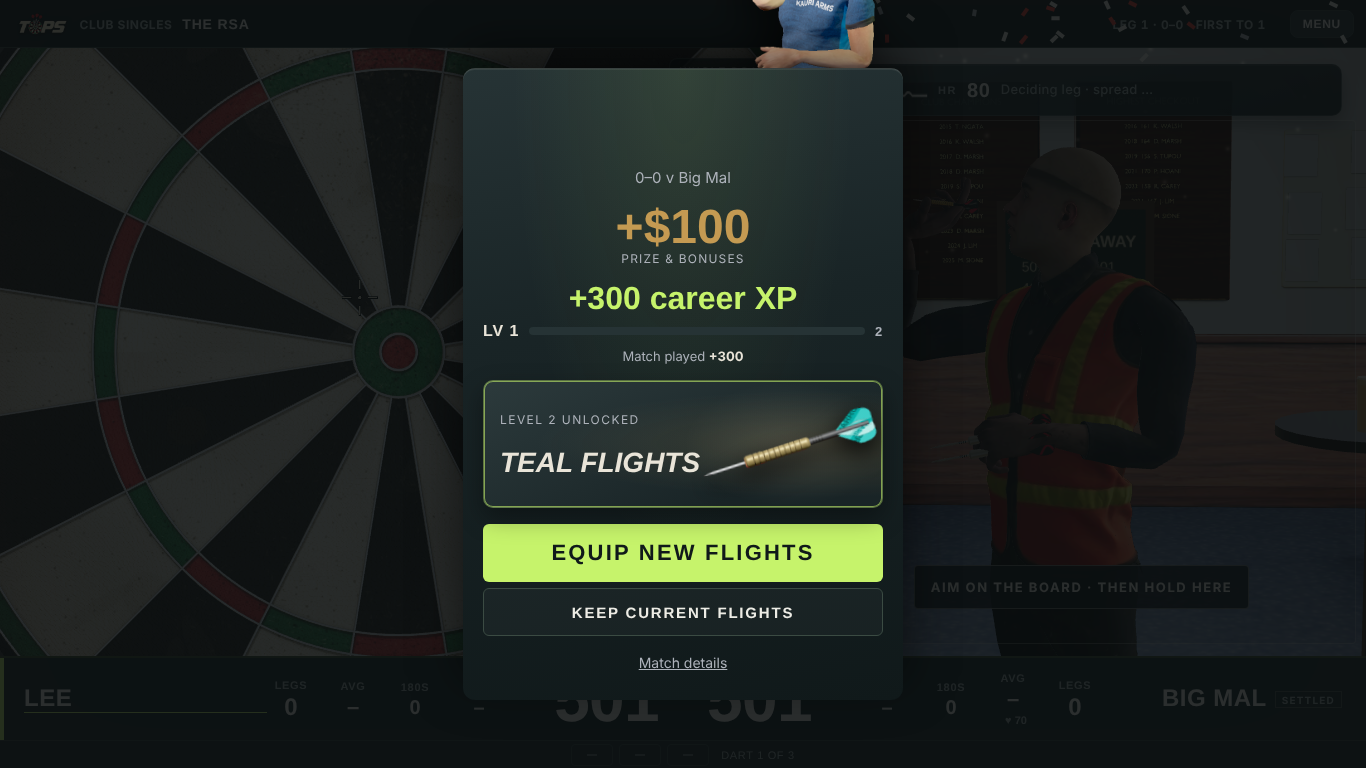
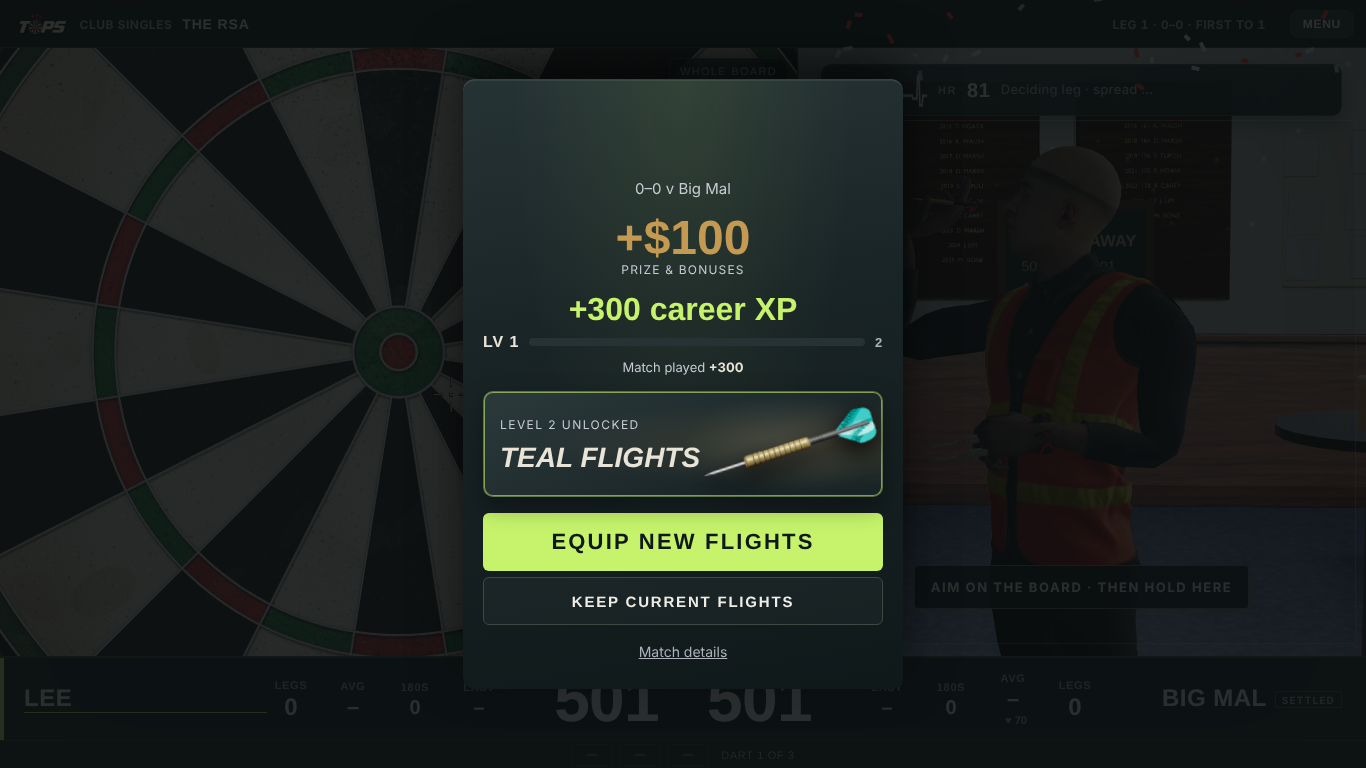
Reward tile ChatGPT r1 (8.2): level-up stage dart 210 px under the item name with a soft spotlight, shorter copy, 'Tap to continue' (equip choice stays on the card); unlock tile taller with a bigger dart; secondary labels lighter; player render hidden when the card is centred on a wide screen (it wa
Claude-Session: https://claude.ai/code/session_01WmQEKVsLutVo52VGmj2r97

diff --git a/v11.js b/v11.js
@@ -47,7 +47,7 @@ body:has(#c3rw:not([hidden])) #achToasts{display:none!important}
 #lvFirst{position:fixed;inset:0;z-index:200;display:flex;flex-direction:column;align-items:center;justify-content:center;background:radial-gradient(circle at 50% 42%,#3a2a0c,#0b0c0f 72%);color:#f1e6c8;text-align:center;padding:24px;cursor:pointer}
 #lvFirst .k{font:700 13px Manrope,system-ui,sans-serif;letter-spacing:.3em;text-transform:uppercase;color:#d6b25e;animation:lvUp .5s .1s}
 #lvFirst .n{font:900 88px/1 Barlow,system-ui,sans-serif;background:linear-gradient(180deg,#fff1bf,#d6a640 60%,#9a6d1e);-webkit-background-clip:text;background-clip:text;color:transparent;animation:lvBig .7s .25s cubic-bezier(.2,.75,.2,1);filter:drop-shadow(0 6px 18px rgba(214,166,64,.45))}
-#lvFirst .s{font:600 15px/1.4 Manrope,system-ui,sans-serif;max-width:300px;margin-top:14px;animation:lvUp .5s .8s}
+#lvFirst .s{font:600 15px/1.4 Manrope,system-ui,sans-serif;max-width:300px;margin-top:14px;animation:lvUp .5s .8s}#lvFirst .s2{margin-top:8px;font-size:14px;color:#d9ccaa}
 #lvFirst .t{margin-top:26px;font:700 12px Manrope,system-ui,sans-serif;letter-spacing:.2em;text-transform:uppercase;color:#d6b25e;animation:lvUp .5s 1.4s}
 #lvFirst .ring{position:absolute;width:220px;height:220px;border-radius:50%;border:2px solid rgba(246,220,146,.6);opacity:0;animation:lvRing 1.2s .25s ease-out forwards}
 @keyframes lvUp{from{transform:translateY(8px)}to{transform:none}}
@@ -131,8 +131,12 @@ body:has(#c3rw:not([hidden])) #achToasts{display:none!important}
  // ---- 4. a bigger first level-up: full-screen reveal the first time the reward card unlocks something ----
  const lvReveal=(unl)=>{const lab=(unl.querySelector('small')||{}).textContent||'';const m=lab.match(/Level (\d+)/);const lv=m?m[1]:'2';
    const item=(unl.querySelector('b')||{}).textContent||'';const ico=unl.querySelector('.ri');
-   const o=document.createElement('div');o.id='lvFirst';o.innerHTML=`<div class="ring"></div><div class="k">Level up</div><div class="n">${lv}</div><div class="s">${item?`<b style="display:block;font:800 22px Barlow,system-ui,sans-serif;letter-spacing:.04em;color:#fff1bf;margin-bottom:6px">${item}</b>`:''}Your first unlock. Every level from here adds something to your kit, your look or your name.</div><div class="t">Tap to equip</div>`;
-   if(ico){const c=ico.cloneNode(true);c.style.cssText='display:block;width:96px;height:96px;margin:18px auto 0;animation:lvUp .5s .6s';const im=c.querySelector('img');if(im)im.style.cssText='width:96px;height:96px;object-fit:contain';o.querySelector('.s').after(c);}
+   const o=document.createElement('div');o.id='lvFirst';o.innerHTML=`<div class="ring"></div><div class="k">Level up</div><div class="n">${lv}</div>${item?`<div class="s"><b style="display:block;font:800 22px Barlow,system-ui,sans-serif;letter-spacing:.04em;color:#fff1bf">${item}</b></div>`:''}<div class="s s2">Your first unlock. Every level adds something new.</div><div class="t">Tap to continue</div>`;
+   // the unlocked item is the star: the dart render 210 px wide straight under its name, angled like the reward card, on a soft spotlight (ChatGPT 00:08)
+   if(ico){const c=ico.cloneNode(true);const dart=c.classList.contains('ri-dart');const im=c.querySelector('img');
+     if(dart){c.style.cssText='display:block;position:relative;width:210px;height:66px;margin:22px auto 4px;background:radial-gradient(ellipse at 50% 55%,rgba(214,166,64,.22),transparent 70%);animation:lvUp .5s .6s';if(im)im.style.cssText='width:210px;height:66px;object-fit:contain;transform:rotate(-9deg);filter:drop-shadow(0 8px 10px rgba(0,0,0,.6))';}
+     else{c.style.cssText='display:block;width:120px;height:120px;margin:18px auto 4px;animation:lvUp .5s .6s';if(im)im.style.cssText='width:120px;height:120px;object-fit:contain';}
+     (o.querySelector('.s:not(.s2)')||o.querySelector('.n')).after(c);}
    document.body.appendChild(o);try{sfxLevel();setTimeout(()=>{try{sfxCheer(false);}catch(e){}},350);}catch(e){}try{confetti(1);}catch(e){}
    let gone=false;const go=()=>{if(gone)return;gone=true;o.style.transition='opacity .25s';o.style.opacity='0';setTimeout(()=>o.remove(),260);};o.onclick=go;setTimeout(go,5000);};
  new MutationObserver(()=>{try{const u=$('c3rwUnl');if(!u||u.hidden||u.dataset.v11||save.lvFirstSeen)return;u.dataset.v11=1;if(!/Level \d+ unlocked/.test(u.textContent))return;save.lvFirstSeen=true;try{persist();}catch(e){}setTimeout(()=>lvReveal(u),250);}catch(e){}}).observe(document.body,{subtree:true,attributes:true,attributeFilter:['hidden'],childList:true});

diff --git a/head3.html b/head3.html
@@ -6662,3 +6662,9 @@ document.addEventListener('DOMContentLoaded',function(){setTimeout(show,1500);})
 .c3rw-unl .ri.ri-hero{width:118px!important;height:118px!important;overflow:hidden;border-radius:10px}.c3rw-unl .ri.ri-hero img{width:100%!important;height:150%!important;max-width:none!important;object-fit:cover;object-position:50% 40%;filter:drop-shadow(0 8px 10px rgba(0,0,0,.5))}
 </style>
 <style id="c3rw-unl2">#c3rw .c3rw-unl,.c3rw .c3rw-unl{border:1px solid rgba(198,243,107,.35)!important}.c3rw-unl::after{content:"";position:absolute;right:0;top:0;bottom:0;width:62%;background:radial-gradient(ellipse 60% 70% at 62% 50%,rgba(255,240,210,.10),rgba(0,0,0,0) 70%);pointer-events:none;z-index:0;border-radius:inherit}</style>
+<style id="rw-polish">/* reward card polish (ChatGPT 00:08): unlock tile a little taller with a bigger dart; readable secondary labels; no cropped player render when the card is centred on a wide screen */
+.c3rw-unl{min-height:106px}
+.ri-dart{width:232px!important;height:72px!important;margin-top:-36px}
+.c3rw-unl small,.c3rw-cash small,.c3rw-src,.c3rw-sc{color:#C6CBD2!important}
+@media (min-width:700px) and (max-height:900px){.c3x-pl.rwhero{display:none}}
+</style>
